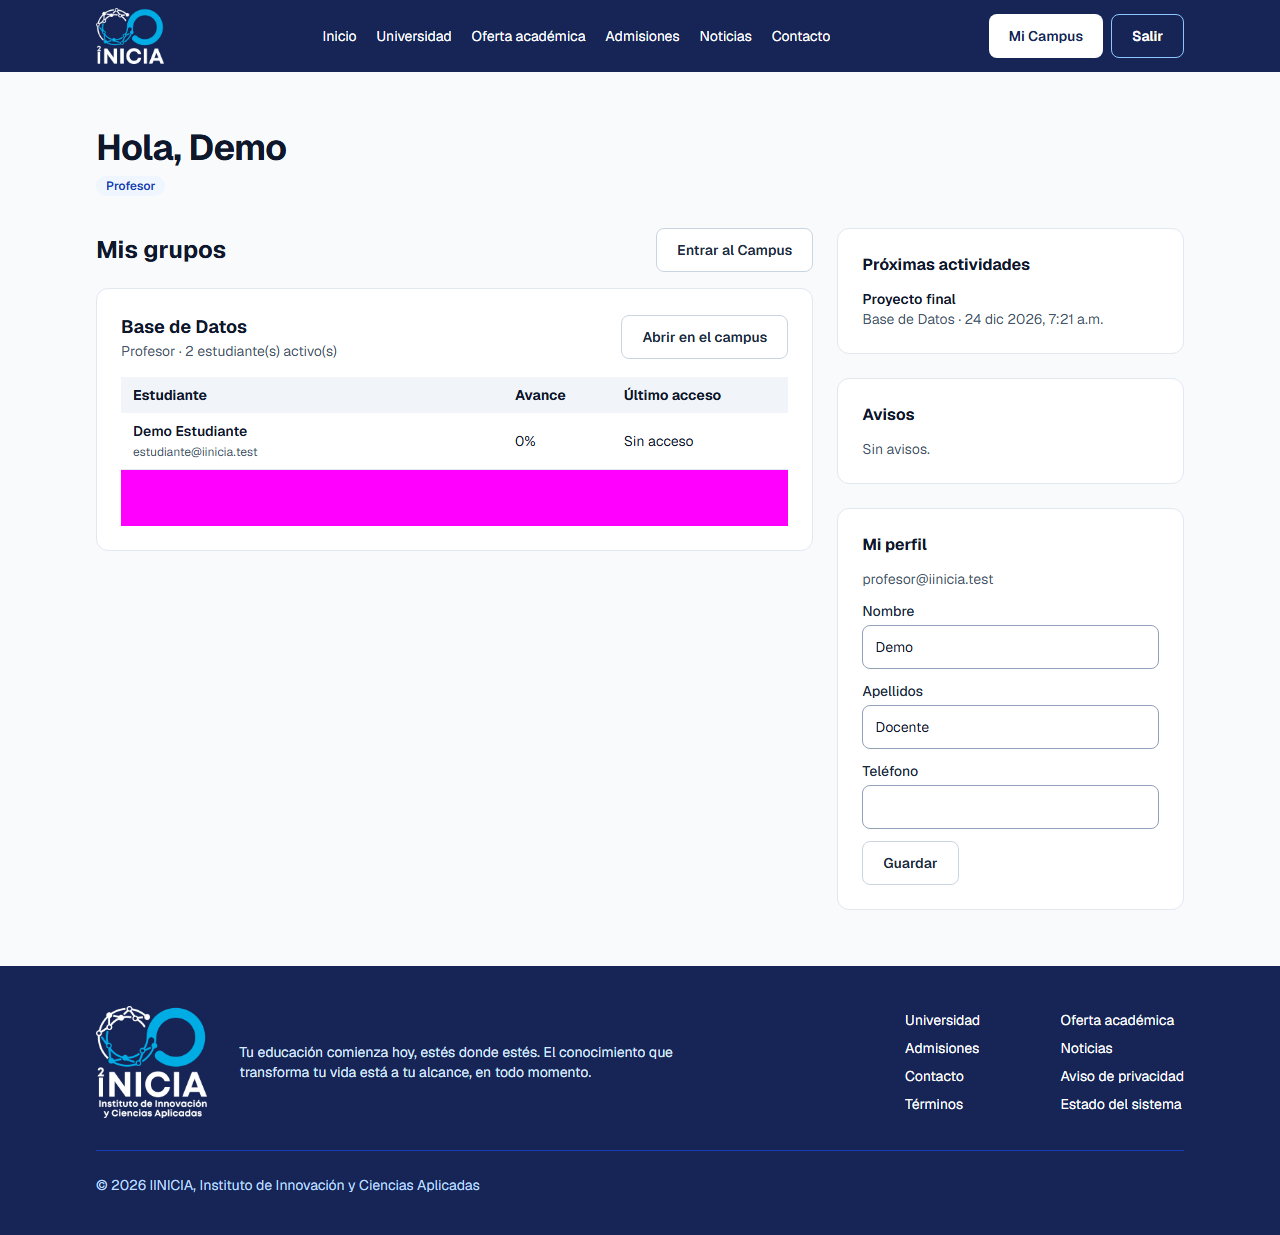
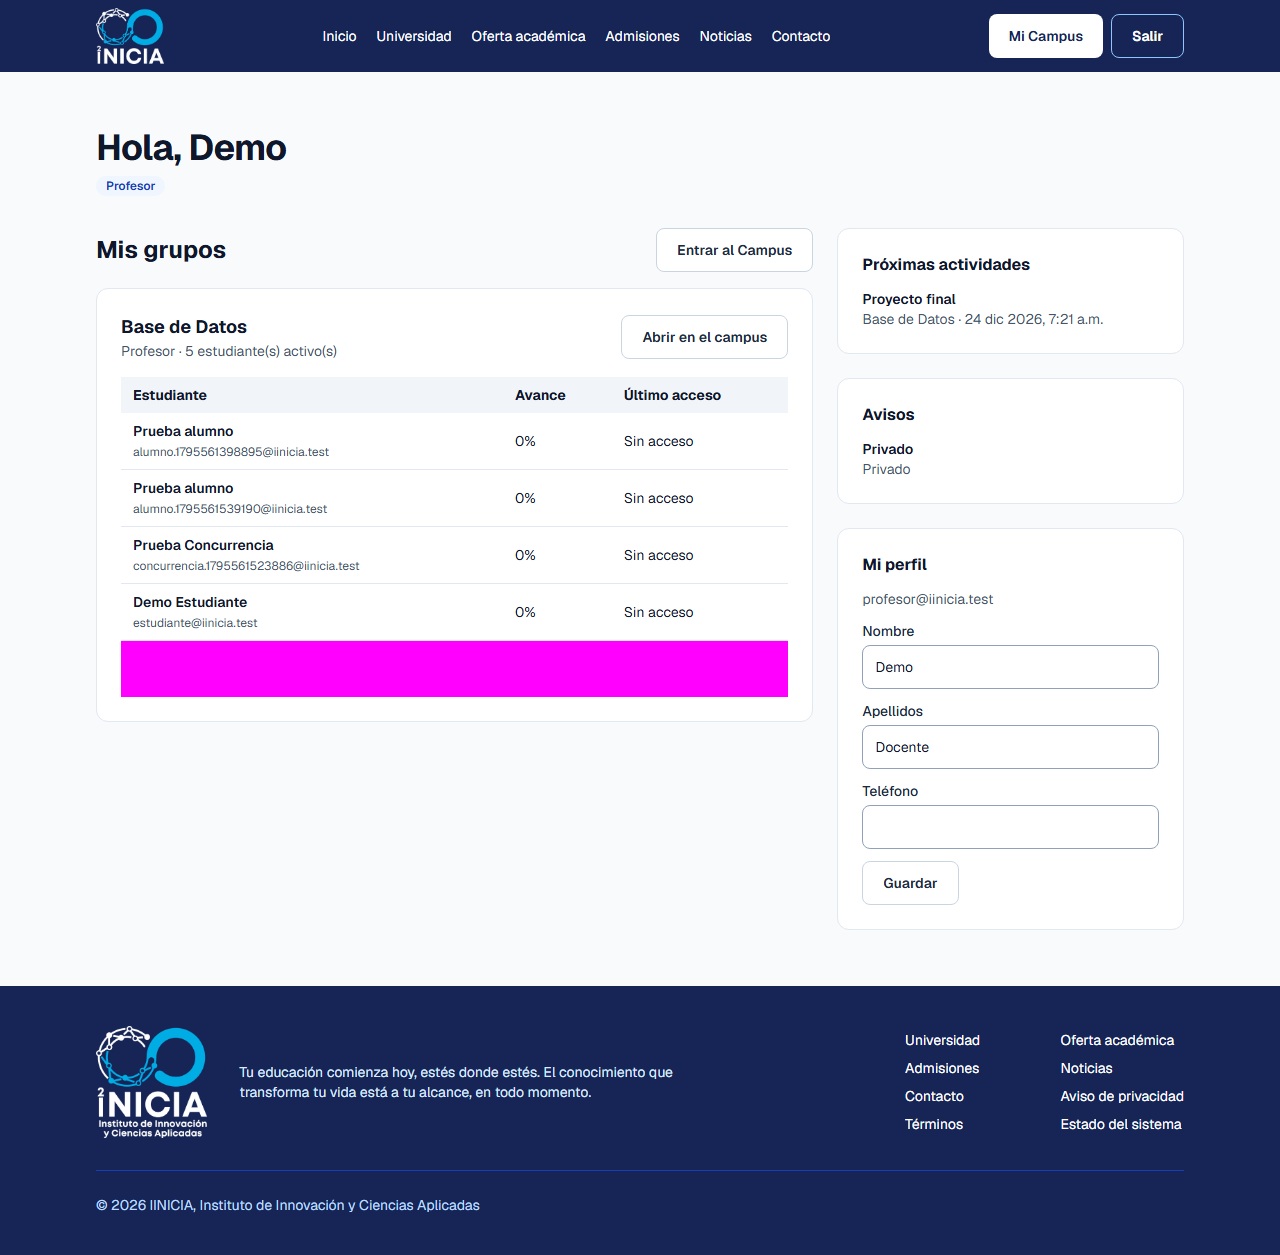
test: regression, compatibility and security tests for the modular backend (stage 2.7)
- backend/test/pagination.test.ts: page/pageSize/sort/order validation,
  legacy array vs paged envelope, filters, SqlConditions never interpolates.
- backend/test/integrations.test.ts: Moodle and Keycloak clients with stubbed
  responses (502 mapping, token never logged, 409 conflict, token reuse).
- contracts: the OpenAPI rule is now "no new required parameters and same
  path params", so fixing params wrongly documented as required stays valid.
- e2e/tests/admin-lists.spec.ts: legacy arrays, paging without overlaps,
  deterministic order, search/filters/sort, 400 on invalid params and SQL
  injection attempts, coordinator scope in paged mode, role authorization and
  access to another person's notification.
- Evidence screenshots regenerated by the full run (real people masked).

diff --git a/e2e/tests/admin-lists.spec.ts b/e2e/tests/admin-lists.spec.ts
@@ -1,0 +1,137 @@
+// Fase 2 (etapas 2.6 y 2.7): listas administrativas con paginación, búsqueda, filtros y ordenamiento,
+// compatibilidad con el formato anterior, validación de parámetros, ámbito del coordinador y autorización.
+import { expect, test, type Page } from "@playwright/test";
+import { bff, session, sql } from "./helpers";
+
+const LISTS = ["admin/users", "admin/applications", "admin/info-requests", "admin/audit", "admin/content"];
+type Paged = { items: Record<string, unknown>[]; total: number; page: number; pageSize: number };
+
+async function paged(page: Page, path: string): Promise<Paged> {
+  const r = await bff(page, "GET", path);
+  expect(r.status, `${path}: ${JSON.stringify(r.body).slice(0, 200)}`).toBe(200);
+  return r.body as Paged;
+}
+
+test("compatibilidad: sin page ni pageSize las listas siguen siendo arreglos", async ({ browser }) => {
+  const root = await session(browser, "superadmin", "/admin");
+  for (const path of LISTS) {
+    const r = await bff(root, "GET", path);
+    expect(r.status, path).toBe(200);
+    expect(Array.isArray(r.body), `${path} debe seguir devolviendo un arreglo`).toBe(true);
+  }
+});
+
+test("paginación: estructura, páginas sin solaparse y orden determinista", async ({ browser }) => {
+  const root = await session(browser, "superadmin", "/admin");
+  for (const path of LISTS) {
+    const first = await paged(root, `${path}?page=1&pageSize=2`);
+    expect(first.page).toBe(1);
+    expect(first.pageSize).toBe(2);
+    expect(first.items.length).toBeLessThanOrEqual(2);
+    expect(first.total).toBeGreaterThanOrEqual(first.items.length);
+    expect(first.items.every((i) => !("_total" in i)), "no debe filtrarse la columna interna _total").toBe(true);
+    if (first.total > 2) {
+      const second = await paged(root, `${path}?page=2&pageSize=2`);
+      const ids = new Set(first.items.map((i) => String(i.id)));
+      expect(second.items.some((i) => ids.has(String(i.id))), `${path}: las páginas no deben repetir registros`).toBe(false);
+    }
+    const again = await paged(root, `${path}?page=1&pageSize=2`);
+    expect(again.items.map((i) => i.id)).toEqual(first.items.map((i) => i.id));
+  }
+  const beyond = await paged(root, "admin/users?page=9999&pageSize=10");
+  expect(beyond.items).toEqual([]);
+  expect(beyond.total).toBe(0);
+});
+
+test("búsqueda, filtros y ordenamiento", async ({ browser }) => {
+  const root = await session(browser, "superadmin", "/admin");
+  const byEmail = await paged(root, "admin/users?pageSize=50&sort=email&order=asc");
+  // Mismo orden que PostgreSQL (misma intercalación), con el desempate por id.
+  const expected = sql("portal", "select email from users order by email asc, id asc limit 50").split(/\r?\n/);
+  expect(byEmail.items.map((u) => u.email)).toEqual(expected);
+
+  const teachers = await paged(root, "admin/users?pageSize=50&role=profesor");
+  expect(teachers.items.length).toBeGreaterThan(0);
+  expect(teachers.items.every((u) => (u.roles as string[]).includes("profesor"))).toBe(true);
+
+  const search = await paged(root, "admin/users?q=estudiante%40iinicia.test&pageSize=10");
+  expect(search.items.map((u) => u.email)).toEqual(["estudiante@iinicia.test"]);
+
+  const registrations = await paged(root, "admin/audit?action=user.register&pageSize=20");
+  expect(registrations.items.every((l) => l.action === "user.register")).toBe(true);
+
+  const pages = await paged(root, "admin/content?type=pagina&status=publicado&pageSize=50");
+  expect(pages.items.every((c) => c.type === "pagina" && c.status === "publicado")).toBe(true);
+
+  const recent = await paged(root, `admin/audit?from=${new Date(Date.now() - 86_400_000).toISOString()}&pageSize=5`);
+  expect(recent.items.every((l) => Date.parse(String(l.createdAt)) >= Date.now() - 86_400_000 - 60_000)).toBe(true);
+});
+
+test("validación: parámetros inválidos responden 400 y la búsqueda no permite inyección", async ({ browser }) => {
+  const root = await session(browser, "superadmin", "/admin");
+  for (const path of [
+    "admin/users?page=0", "admin/users?pageSize=1000", "admin/users?sort=password", "admin/users?order=sideways",
+    "admin/users?role=hacker", "admin/users?status=x", "admin/users?programId=1%27%20OR%201%3D1",
+    "admin/audit?from=ayer", "admin/audit?action=DROP%20TABLE", "admin/content?status=oculto",
+    "admin/info-requests?status=x", "admin/applications?status=x%27--", `admin/users?q=${"x".repeat(101)}`,
+  ]) {
+    expect((await bff(root, "GET", path)).status, path).toBe(400);
+  }
+  const injection = await bff(root, "GET", `admin/users?q=${encodeURIComponent("' OR 1=1 --")}&pageSize=10`);
+  expect(injection.status).toBe(200);
+  expect(injection.body.items).toEqual([]);
+  expect(Number(sql("portal", "select count(*) from users"))).toBeGreaterThan(0);
+});
+
+test("ámbito del coordinador también en el modo paginado", async ({ browser }) => {
+  const coordinator = await session(browser, "coordinador", "/admin");
+  const root = await session(browser, "superadmin", "/admin");
+  const programs = (await bff(root, "GET", "admin/programs")).body as { id: string; slug: string }[];
+  const own = programs.find((p) => p.slug === "base-de-datos")!;
+  const other = programs.find((p) => p.slug !== "base-de-datos")!;
+
+  const apps = await paged(coordinator, "admin/applications?pageSize=100");
+  expect(apps.items.every((a) => a.programId === own.id)).toBe(true);
+  const otherApps = await paged(coordinator, `admin/applications?pageSize=100&programId=${other.id}`);
+  expect(otherApps.items).toEqual([]);
+
+  // Los usuarios visibles para el coordinador son solo los que tienen solicitud en su programa.
+  const visible = await paged(coordinator, "admin/users?pageSize=100");
+  for (const u of visible.items) {
+    expect(sql("portal", `select count(*) from applications where user_id = '${u.id}' and program_id = '${own.id}'`)).not.toBe("0");
+  }
+});
+
+test("autorización por rol en las listas paginadas", async ({ browser }) => {
+  const expectations: [string, string, number][] = [
+    ["estudiante", "admin/users?page=1", 403],
+    ["aspirante", "admin/audit?page=1", 403],
+    ["soporte", "admin/audit?page=1", 403],
+    ["soporte", "admin/users?page=1", 200],
+    ["profesor", "admin/applications?page=1", 403],
+    ["coordinador", "admin/info-requests?page=1", 403],
+    ["coordinador", "admin/content?page=1", 403],
+    ["tecnico", "admin/audit?page=1", 200],
+    ["academico", "admin/info-requests?page=1", 200],
+  ];
+  for (const [who, path, status] of expectations) {
+    const page = await session(browser, who, "/mi-iinicia");
+    expect((await bff(page, "GET", path)).status, `${who} ${path}`).toBe(status);
+    await page.context().close();
+  }
+});
+
+test("recursos ajenos: un estudiante no puede marcar como leído el aviso de otra persona", async ({ browser }) => {
+  const root = await session(browser, "superadmin", "/admin");
+  const studentId = sql("portal", "select id from users where email = 'estudiante@iinicia.test'");
+  const teacherId = sql("portal", "select id from users where email = 'profesor@iinicia.test'");
+  expect((await bff(root, "POST", "admin/notifications", { userId: teacherId, title: "Privado", body: "Privado" })).status).toBe(201);
+  const noticeId = sql("portal", `select id from notifications where user_id = '${teacherId}' and title = 'Privado' order by created_at desc limit 1`);
+
+  const student = await session(browser, "estudiante");
+  expect((await bff(student, "POST", `me/notifications/${noticeId}/read`)).status).toBe(201);
+  expect(sql("portal", `select read_at is null from notifications where id = '${noticeId}'`)).toBe("t");
+  const mine = (await bff(student, "GET", "me/notifications")).body as { id: string }[];
+  expect(mine.some((n) => n.id === noticeId)).toBe(false);
+  expect(studentId).not.toBe(teacherId);
+});

diff --git a/backend/test/integrations.test.ts b/backend/test/integrations.test.ts
@@ -1,0 +1,85 @@
+// Clientes de integración con respuestas simuladas (sin red): traducción de errores y protección del token.
+import assert from 'node:assert/strict';
+import { afterEach, describe, it } from 'node:test';
+import { BadGatewayException, ConflictException, Logger } from '@nestjs/common';
+import { config } from '../src/config';
+import { KeycloakService } from '../src/integrations/keycloak/keycloak.service';
+import { MoodleService } from '../src/integrations/moodle/moodle.service';
+
+const realFetch = globalThis.fetch;
+const logs: string[] = [];
+afterEach(() => { globalThis.fetch = realFetch; logs.length = 0; });
+
+function stubFetch(handler: (url: string, init: RequestInit) => Response | Promise<Response>) {
+  globalThis.fetch = (async (input: RequestInfo | URL, init: RequestInit = {}) => handler(String(input), init)) as typeof fetch;
+}
+const json = (body: unknown, status = 200) => new Response(JSON.stringify(body), { status, headers: { 'content-type': 'application/json' } });
+const capture = (m: unknown) => { logs.push(String(m)); };
+Logger.overrideLogger({ log: capture, warn: capture, error: capture, debug: capture, verbose: capture });
+
+describe('MoodleService', () => {
+  it('envía el token del backend solo en el cuerpo de la petición y devuelve los datos', async () => {
+    let body = '';
+    stubFetch((url, init) => {
+      assert.ok(!url.includes(config.moodle.token), 'el token no debe ir en la URL');
+      body = String(init.body);
+      return json({ courses: [{ id: 3, fullname: 'Base de Datos', shortname: 'BD-101', visible: true }] });
+    });
+    const courses = await new MoodleService().listCourses();
+    assert.equal(courses[0].shortname, 'BD-101');
+    assert.match(body, /wsfunction=local_iinicia_list_courses/);
+  });
+
+  it('una excepción de Moodle se traduce a 502 sin exponer detalles internos ni el token', async () => {
+    stubFetch(() => json({ exception: 'dml_write_exception', errorcode: 'dmlwriteexception', message: 'detalle interno' }));
+    await assert.rejects(new MoodleService().upsertUser({ uuid: 'u', sub: 's', email: 'e@iinicia.test', firstName: 'A', lastName: 'B', suspended: false }),
+      (e: unknown) => e instanceof BadGatewayException && /dmlwriteexception/.test((e as Error).message) && !/detalle interno/.test((e as Error).message));
+    assert.ok(logs.length > 0, 'el error debe quedar registrado');
+    assert.ok(logs.every((l) => !l.includes(config.moodle.token)), 'el token no debe aparecer en los registros');
+  });
+
+  it('si Moodle no responde, el error es 502 "El campus no está disponible"', async () => {
+    stubFetch(() => { throw new TypeError('fetch failed'); });
+    await assert.rejects(new MoodleService().overview(5), (e: unknown) => e instanceof BadGatewayException && /no está disponible/.test((e as Error).message));
+  });
+
+  it('health() devuelve false cuando Moodle falla, sin lanzar', async () => {
+    stubFetch(() => { throw new TypeError('fetch failed'); });
+    assert.equal(await new MoodleService().health(), false);
+  });
+});
+
+describe('KeycloakService', () => {
+  const withToken = (next: (url: string, init: RequestInit) => Response) => stubFetch((url, init) =>
+    url.endsWith('/protocol/openid-connect/token') ? json({ access_token: 'tok', expires_in: 300 }) : next(url, init));
+
+  it('un correo ya registrado en Keycloak (409) se informa como conflicto', async () => {
+    withToken(() => new Response(null, { status: 409 }));
+    await assert.rejects(new KeycloakService().createUser({ email: 'x@iinicia.test', firstName: 'A', lastName: 'B', password: 'Segura12345' }),
+      (e: unknown) => e instanceof ConflictException);
+  });
+
+  it('crea la identidad con verificación de correo pendiente y devuelve su id', async () => {
+    let sent: Record<string, unknown> = {};
+    withToken((url, init) => {
+      sent = JSON.parse(String(init.body));
+      return new Response(null, { status: 201, headers: { location: `${url}/abc-123` } });
+    });
+    assert.equal(await new KeycloakService().createUser({ email: 'Nuevo@IINICIA.test', firstName: 'A', lastName: 'B', password: 'Segura12345' }), 'abc-123');
+    assert.equal(sent.email, 'nuevo@iinicia.test');
+    assert.deepEqual(sent.requiredActions, ['VERIFY_EMAIL']);
+    assert.equal(sent.emailVerified, false);
+  });
+
+  it('reutiliza el token de servicio mientras no venza', async () => {
+    let tokens = 0;
+    stubFetch((url) => {
+      if (url.endsWith('/token')) { tokens++; return json({ access_token: 'tok', expires_in: 300 }); }
+      return json([]);
+    });
+    const kc = new KeycloakService();
+    await kc.findByEmail('a@iinicia.test');
+    await kc.findByEmail('b@iinicia.test');
+    assert.equal(tokens, 1);
+  });
+});

diff --git a/backend/test/pagination.test.ts b/backend/test/pagination.test.ts
@@ -1,0 +1,80 @@
+// Paginación, ordenamiento y filtros (Fase 2, etapa 2.6): validación de parámetros y compatibilidad.
+import assert from 'node:assert/strict';
+import { describe, it } from 'node:test';
+import { BadRequestException } from '@nestjs/common';
+import { oneOf, optionalDate, optionalUuid, parsePage, searchTerm, SortSpec, toPageResult } from '../src/common/pagination';
+import { SqlConditions } from '../src/common/sql';
+
+const SPEC: SortSpec = {
+  columns: { createdAt: 'u.created_at', email: 'u.email' },
+  default: 'createdAt', defaultOrder: 'desc', tieBreaker: 'u.id', legacyLimit: 200,
+};
+const bad = (fn: () => unknown) => assert.throws(fn, (e: unknown) => e instanceof BadRequestException);
+
+describe('parsePage', () => {
+  it('sin page ni pageSize conserva el modo anterior: arreglo con el límite de siempre', () => {
+    const r = parsePage({}, SPEC);
+    assert.deepEqual(r, { paged: false, page: 1, pageSize: 200, offset: 0, orderBy: 'u.created_at DESC, u.id DESC' });
+  });
+
+  it('con page o pageSize activa la paginación con valores por omisión', () => {
+    assert.deepEqual(parsePage({ page: '3' }, SPEC), { paged: true, page: 3, pageSize: 20, offset: 40, orderBy: 'u.created_at DESC, u.id DESC' });
+    assert.equal(parsePage({ pageSize: '50' }, SPEC).offset, 0);
+  });
+
+  it('el orden solo acepta columnas de la lista y siempre desempata por id', () => {
+    assert.equal(parsePage({ sort: 'email', order: 'asc' }, SPEC).orderBy, 'u.email ASC, u.id ASC');
+    bad(() => parsePage({ sort: 'password' }, SPEC));
+    bad(() => parsePage({ sort: 'u.email; DROP TABLE users' }, SPEC));
+    bad(() => parsePage({ order: 'sideways' }, SPEC));
+  });
+
+  it('rechaza páginas y tamaños inválidos y respeta el máximo configurado (100)', () => {
+    for (const page of ['0', '-1', 'abc', '1.5', '9999999999']) bad(() => parsePage({ page }, SPEC));
+    bad(() => parsePage({ pageSize: '101' }, SPEC));
+    assert.equal(parsePage({ pageSize: '100' }, SPEC).pageSize, 100);
+  });
+});
+
+describe('toPageResult', () => {
+  const rows = [{ id: 1, _total: '42' }, { id: 2, _total: '42' }];
+  it('modo anterior: devuelve solo las filas, sin la columna interna _total', () => {
+    assert.deepEqual(toPageResult(rows, parsePage({}, SPEC)), [{ id: 1 }, { id: 2 }]);
+  });
+  it('modo paginado: devuelve items, total, page y pageSize', () => {
+    assert.deepEqual(toPageResult(rows, parsePage({ page: '2', pageSize: '2' }, SPEC)), { items: [{ id: 1 }, { id: 2 }], total: 42, page: 2, pageSize: 2 });
+    assert.deepEqual(toPageResult([], parsePage({ page: '9' }, SPEC)), { items: [], total: 0, page: 9, pageSize: 20 });
+  });
+});
+
+describe('filtros', () => {
+  it('oneOf acepta solo valores permitidos', () => {
+    assert.equal(oneOf(undefined, ['a', 'b'] as const, 'x'), null);
+    assert.equal(oneOf('a', ['a', 'b'] as const, 'x'), 'a');
+    bad(() => oneOf('c', ['a', 'b'] as const, 'x'));
+  });
+  it('UUID, fecha y búsqueda se validan', () => {
+    assert.equal(optionalUuid('3f1c2b9a-1d2e-4c3b-9a8f-0123456789ab', 'id'), '3f1c2b9a-1d2e-4c3b-9a8f-0123456789ab');
+    bad(() => optionalUuid("1' OR '1'='1", 'id'));
+    assert.equal(optionalDate('2026-11-24', 'from'), '2026-11-24');
+    bad(() => optionalDate('ayer', 'from'));
+    assert.equal(searchTerm('  ana  '), 'ana');
+    bad(() => searchTerm('x'.repeat(101)));
+  });
+});
+
+describe('SqlConditions', () => {
+  it('numera los parámetros y nunca interpola valores en el texto', () => {
+    const malicious = "x'); DROP TABLE users; --";
+    const w = new SqlConditions().add('a = ?', 1).addIf(false, 'b = ?', 2).add('c ILIKE ? OR d ILIKE ?', malicious, malicious);
+    assert.equal(w.where(), 'WHERE (a = $1) AND (c ILIKE $2 OR d ILIKE $3)');
+    assert.equal(w.param(10), '$4');
+    assert.deepEqual(w.params, [1, malicious, malicious, 10]);
+    assert.ok(!w.where().includes('DROP'));
+  });
+  it('sin condiciones no genera WHERE; detecta valores faltantes o de más', () => {
+    assert.equal(new SqlConditions().where(), '');
+    assert.throws(() => new SqlConditions().add('a = ? AND b = ?', 1));
+    assert.throws(() => new SqlConditions().add('a = ?', 1, 2));
+  });
+});
